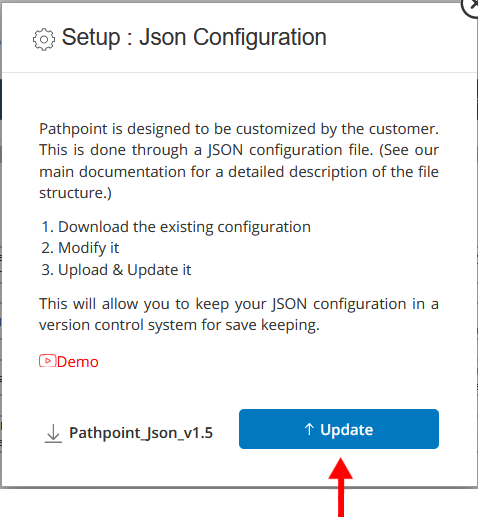
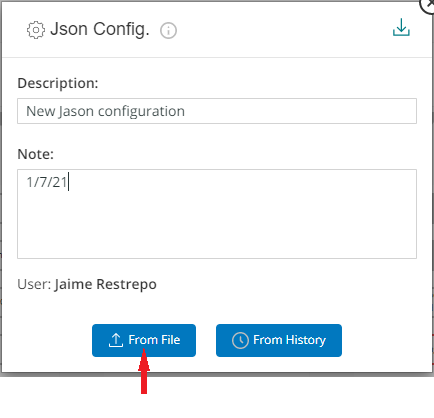
10

diff --git a/docs/user_manual/v1.5.5/README.md b/docs/user_manual/v1.5.5/README.md
@@ -200,7 +200,7 @@ These are the different parts of the Query box window, of a Touchpoint;
      5 Min_count: The query will present a minimum of X number of records.
      6 Measure_time: Determines the time from when you want the query to collect information to perform the measurement.
 
-And these are two examples of the configuration fo a Touchpoint;
+And these are two examples of a typical Touchpoint congiguration;
 
 Example 1
 
@@ -230,22 +230,22 @@ Uploading a New JSON Config File
 
 To load a JSON configuration file use the following steps;
 
-![imagecambiar](screenshots/Menu_pathpoint.png)
 
- 1 To begin, once you are on the Pathpoint screen, click on the menu on the top left part of the window.
+
+ ![imagecambiar](screenshots/New_Jason.png)
+
+  1 To begin, once you are on the Pathpoint screen, click on the three lines on the top left part of the window.
 
 2 Now, click on the option "JSON Configuration".
 
 ![image](screenshots/Option_update.png)
 
- 
-3 Next, select "Update"
-
+3 On the dialog box window that opens up, type under "Descripcion:) a memo that will remind you later why you chose to upload a new JSON configuration file. There is also a space for a Note, write the current date. Now, to start this process, click on "From File".
 
 ![image](screenshots/file_location.png)
 
 
-4 Next, locate the file you want to update on the dialog box window that opens up and click on "Open"
+4 Next, locate the file you want to update and click on "Open"
 
 ![image](screenshots/front_pathpoint.png)
 
@@ -256,19 +256,19 @@ How to download the Currently Active Config File.
 
 Similarly, Pathpoint offers you the possibility of downloading the current configuration file, if for instance you wish to make changes to it, which can be done using the following steps;
 
-![imagecambiar](screenshots/Menu_pathpoint.png)
+![imagecambiar](screenshots/New_Jason.png)
 
-1 Click on the menu on the top left (once you are on the New Relic Pathpoint  window).
+1 To begin, once you are on the Pathpoint screen, click on the three lines on the top left part of the window.
 
-2 Select the option "JSON Configuration".
+2 Now, select the option "JSON Configuration".
 
-![image](screenshots/pathpoint_jason_vx.png)
+![image](screenshots/pathpoint_jason_vx1.png)
 
-3 Now, select the file available to download. On this example"Pathpoint_json_vX".
+3 Next, click on the arrow down, to download the current JSON configuration file.
 
 ![image](screenshots/downloaded_file.png)
 
-4 Finally the file is downloaded to your computer (in Google Chrome you will see the file at the bottom of the browser), and now you can make the changes to it.
+4 Finally the file is downloaded to your computer (in Google Chrome you will see the file at the bottom of the browser), and now you can work on it.
 
 ### <a id="Setting_up_KPI_queries"></a>Setting up KPI queries ##
 
@@ -323,9 +323,6 @@ Type: Defines the type of measurement to be performed, which can be:
 ![image](screenshots/KPI5.png)
 
 ![image](screenshots/KPI6.png)
-
-
-
 
 Return to top of [Index](#Index)
 
